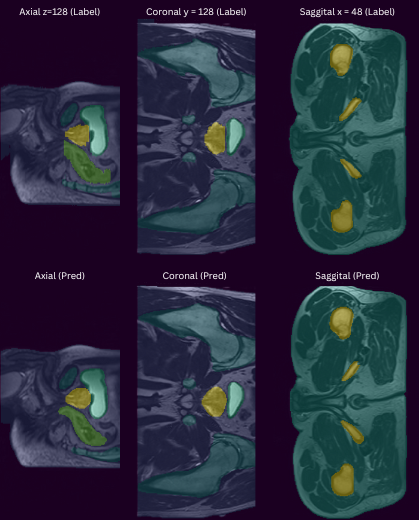
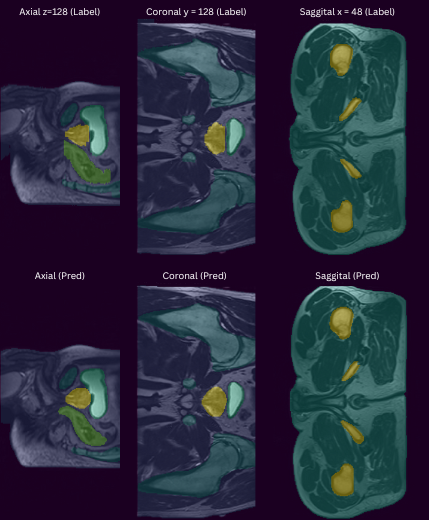
add model diagram

diff --git a/recognition/HipMRI/README.md b/recognition/HipMRI/README.md
@@ -16,8 +16,12 @@ For detailed insights into the original 3D U-Net design and medical imaging appl
   - [Squeeze-and-Excitation (SE) Blocks](#squeeze-and-excitation-se-blocks)
   - [Attention Gates](#attention-gates)
   - [Atrous Spatial Pyramid Pooling (ASPP)](#atrous-spatial-pyramid-pooling-aspp)
+- [Loss and Metrics](#loss-and-metrics)
 - [Training](#training)
+  - [Training Configuration](#training-configuration)
+  - [Validation and Testing](#validation-and-testing)
 - [Training Results](#training-results)
+- [Samples](#samples)
 - [Dependencies](#dependencies)
 - [References](#references)
 
@@ -40,14 +44,31 @@ This repository consists of the following four major files:
 
 ## Model Architecture
 ### Base UNet3D Overview
+The **Improved UNet3D** follows the encoder–decoder design of the classic U-Net, adapted for 3D medical imaging.  
+The encoder captures hierarchical features through downsampling, while the decoder restores spatial resolution via upsampling and skip connections.  
+Channel depth starts at **32** and doubles at each level (32 → 64 → 128 → 256 → 512).  
+An **ASPP** block at the bottleneck aggregates multi-scale context before decoding.
 
 ### Residual Connections
+Each stage uses **residual blocks** (`Res3D`) with two 3D convolutions, **Group Normalization**, and **SiLU** activation.  
+Residual shortcuts improve gradient flow, training stability, and representation depth, allowing the network to learn finer prostate details.
 
 ### Squeeze-and-Excitation (SE) Blocks
+**SE3D** modules adaptively recalibrate channel responses.  
+Global average pooling captures channel statistics, which are used to reweight features via learned attention.  
+This focuses the network on the most informative tissue structures and suppresses noise.
 
 ### Attention Gates
+Decoder **attention gates** refine skip connections by weighting spatial regions based on relevance.  
+Each gate combines encoder and decoder features to generate an attention mask, filtering out irrelevant background and highlighting key anatomical areas for fusion.
 
 ### Atrous Spatial Pyramid Pooling (ASPP)
+The **ASPP3D** module captures multi-scale context using parallel dilated convolutions with rates (1, 2, 4, 6) and a global pooling branch.  
+These are concatenated and projected into a unified feature map, enhancing robustness to prostate size and shape variation.
+
+### Model Diagram
+![model](README_images/modeldiagram.png)
+
 ## Training
 Initially, I tested **different patch sizes** while keeping `batch_size=1` and `num_workers=4` to observe GPU utilization and determine the optimal configuration for my A100 cluster. As illustrated below, GPU usage increased almost linearly with the size of the training patch.  
 After testing, I settled on a patch size of **(256, 256, 128)**, which reached around **72% GPU utilization** on the **NVIDIA A100** without exceeding memory limits. I then increased the number of data-loading workers to **8** (the maximum available cores) to minimize data-loading bottlenecks during training.
@@ -96,9 +117,12 @@ Major structures reached stability early (≈ epoch 10), while finer structures 
 - The Improved UNet3D achieved **high segmentation accuracy**, surpassing the project target of **DSC ≥ 0.7** for all labels.  
 - Smaller structures benefited most from the **attention and ASPP** modules, leading to smoother convergence and improved boundary delineation.
 
+## Training Evaluation
+The Improved UNet3D on the held-out test set, attained Dice scores of `[0.9983, 0.9880, 0.9221, 0.9458, 0.8591, 0.8491]`, all exceeding the 0.7 performance target.
+The model demonstrated strong generalization, accurately segmenting both major and smaller prostate structures, aided by attention, residual, SE, and ASPP modules.
+
 ## Samples
-![Sample1](samples/1.png)
-![Sample2](samples/2.png)
+  ![Sample1](samples/1.png)![Sample2](samples/2.png)
 - The following figures illustrate qualitative segmentation results from the Improved UNet3D model on the Prostate 3D dataset.
 - Each example shows the ground truth label (top row) and the predicted segmentation (bottom row) across three orthogonal MRI planes: axial, coronal, and sagittal.
 - However, in the sagittal slice (x = 96), some label mismatches can be observed - likely caused by overlapping boundaries or low-intensity contrast in the MRI volume.
